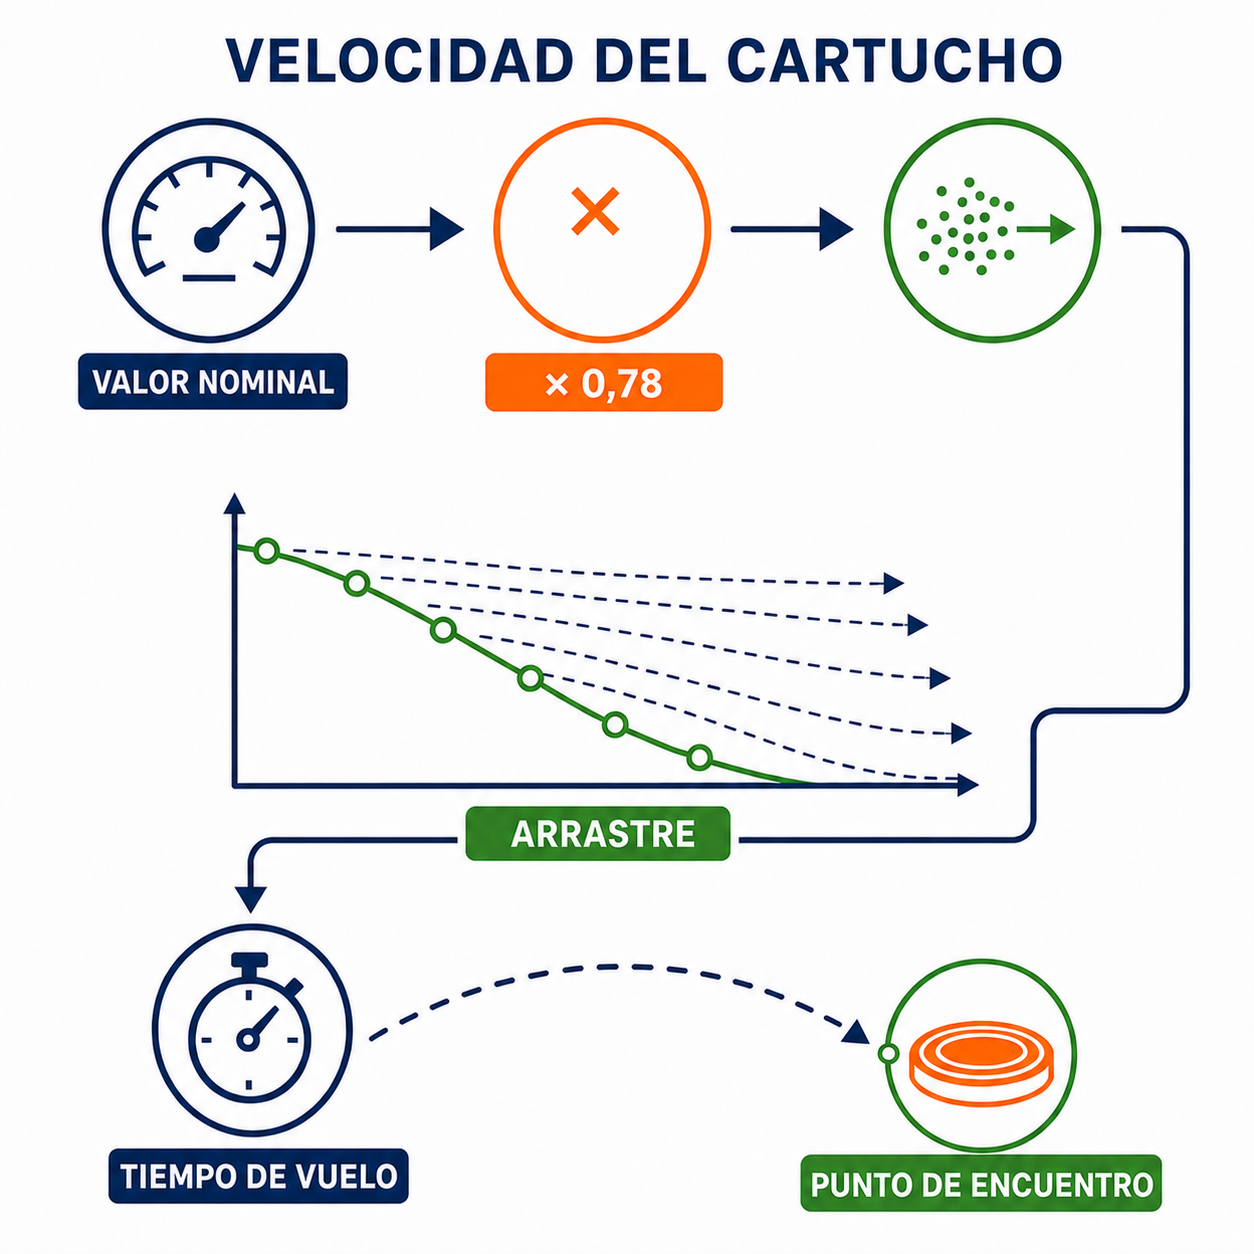
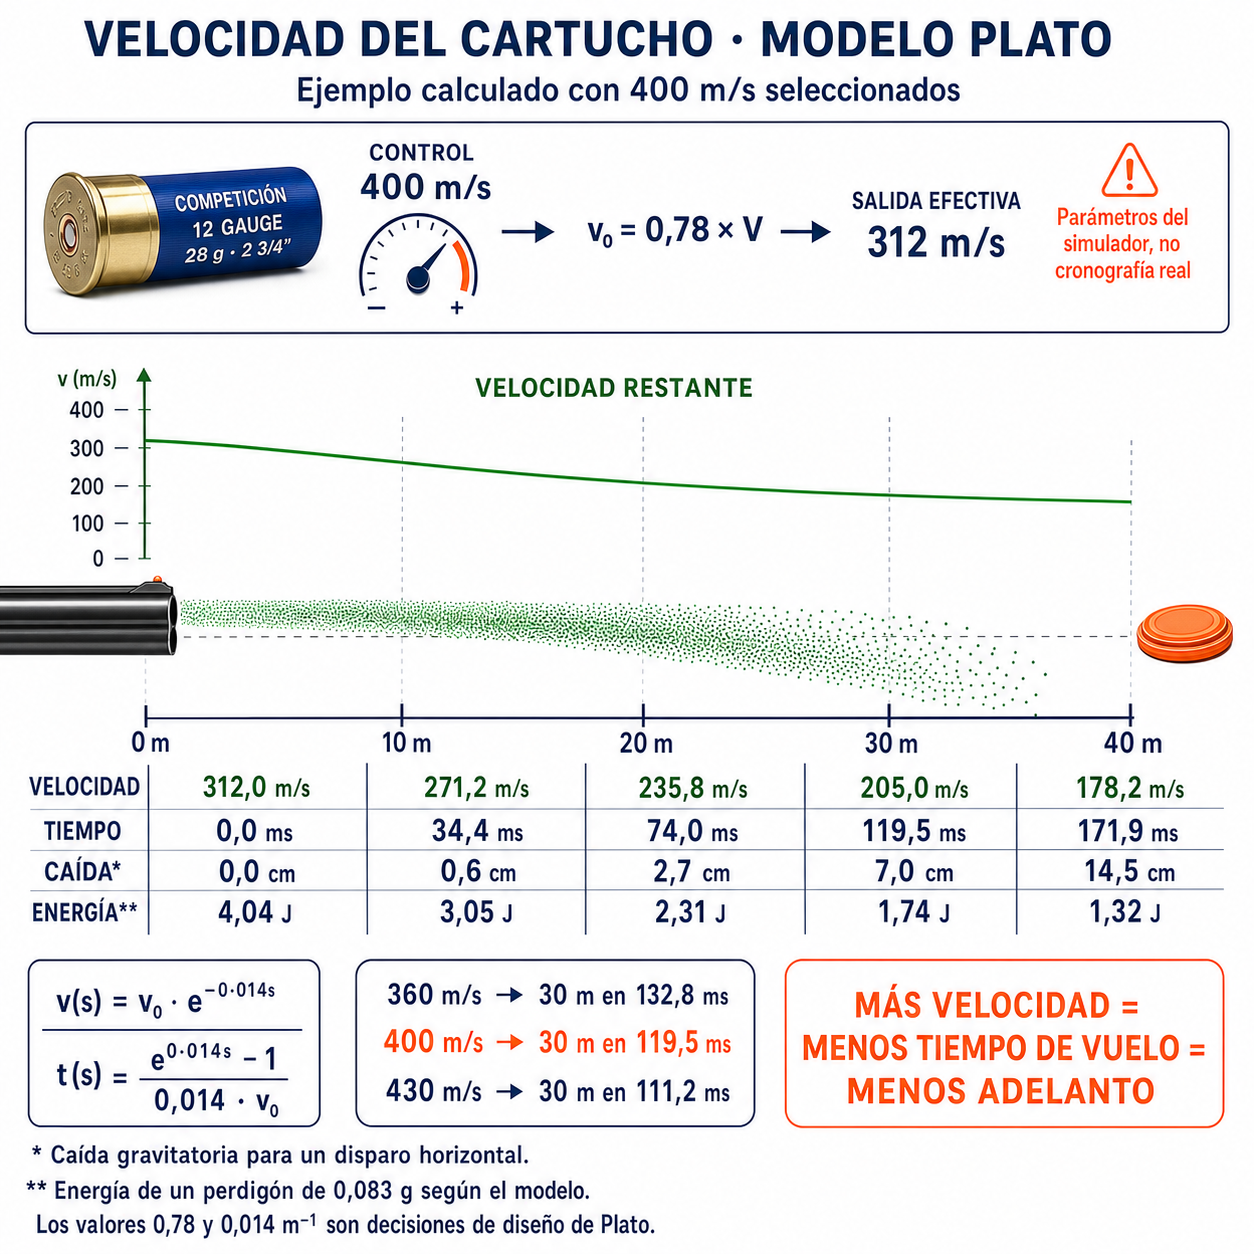
docs: cuantifica la velocidad del cartucho

Changed region(s): [[0.0, 0.0, 0.9952, 0.9952], [0.3732, 0.3732, 0.9019, 0.4043]]

diff --git a/index.html b/index.html
@@ -2133,8 +2133,8 @@
   <p class="section-bridge">El choke cambia la apertura del patrón, por lo que un mismo error puede ser pequeño o decisivo según la distancia y el cañón. La velocidad del cartucho determina además cuánto tarda la nube y con qué energía llega al blanco.</p>
     <p class="section-lead"><strong>El control muestra una velocidad de referencia entre 360 y 430 m/s.</strong> Sin embargo, el modelo inicia la nube al 78 % de ese valor y después reduce su velocidad siguiendo una curva exponencial. Por eso, leer solo la cifra de la pantalla puede llevar a una conclusión equivocada.</p>
     <figure class="figure micro-figure">
-      <img loading="lazy" src="docs/manual-libro/assets/images/infografias/subapartados/09-09-velocidad-del-cartucho.png" width="1254" height="1254" alt="Cadena de velocidad nominal, factor efectivo, pérdida por distancia, tiempo de vuelo y punto de encuentro">
-      <figcaption>La cifra elegida alimenta un modelo interno: velocidad efectiva, arrastre, tiempo de vuelo y adelantamiento. No es una cronografía virtual de un cartucho comercial.</figcaption>
+      <img loading="lazy" src="docs/manual-libro/assets/images/infografias/subapartados/09-09-velocidad-del-cartucho.png" width="1254" height="1254" alt="Tabla balística del modelo Plato para un control de 400 metros por segundo, con velocidad, tiempo, caída y energía entre cero y cuarenta metros">
+      <figcaption>Ejemplo cuantitativo del modelo con 400 m/s seleccionados: la tabla sigue el centro de la nube hasta 40 m. Son resultados de las fórmulas de Plato, no medidas certificadas de un cartucho comercial.</figcaption>
     </figure>
     <p>Si el usuario selecciona <code>V</code>, Plato usa <code>v0 = 0,78V</code> para el perdigón central. Cada dirección periférica puede multiplicarla por un factor entre 0,88 y 1,02 según variación. La pérdida con distancia sigue <code>v(s) = v0·e<sup>−0,014s</sup></code>. Integrar esa ley produce la distancia recorrida <code>s(t) = ln(1 + 0,014v0t)/0,014</code>; invertirla permite hallar el tiempo para una distancia.</p>
     <p>Por ejemplo, 400 m/s en la interfaz comienza como 312 m/s en el eje antes de aplicar la dispersión. Esto es una decisión explícita del programa. No debe ocultarse bajo frases como «cartucho de 400 m/s». SAAMI define métodos y condiciones para medir velocidades de cartuchos, y explica que una nube puede activar instrumentos de manera distinta según se detecte su parte delantera o la zona densa. El valor de fabricante pertenece a ese protocolo; la velocidad de Plato pertenece a su fórmula. Compararlos exige conocer distancia al sensor, cañón de prueba, temperatura y criterio de detección, datos que la interfaz no solicita.</p>
